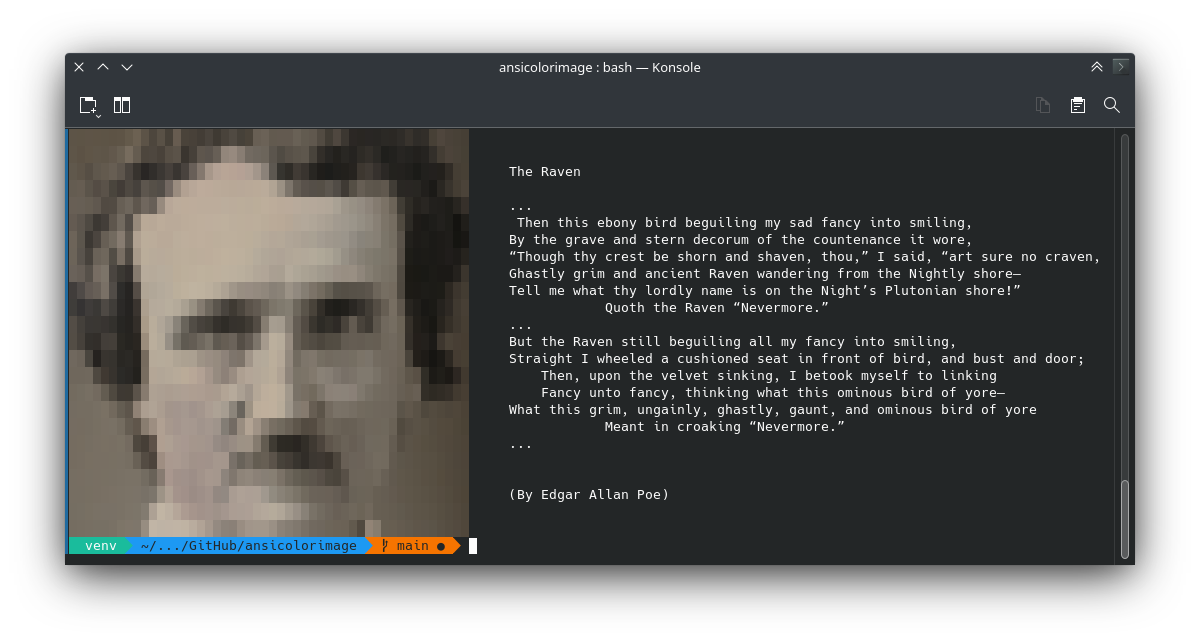
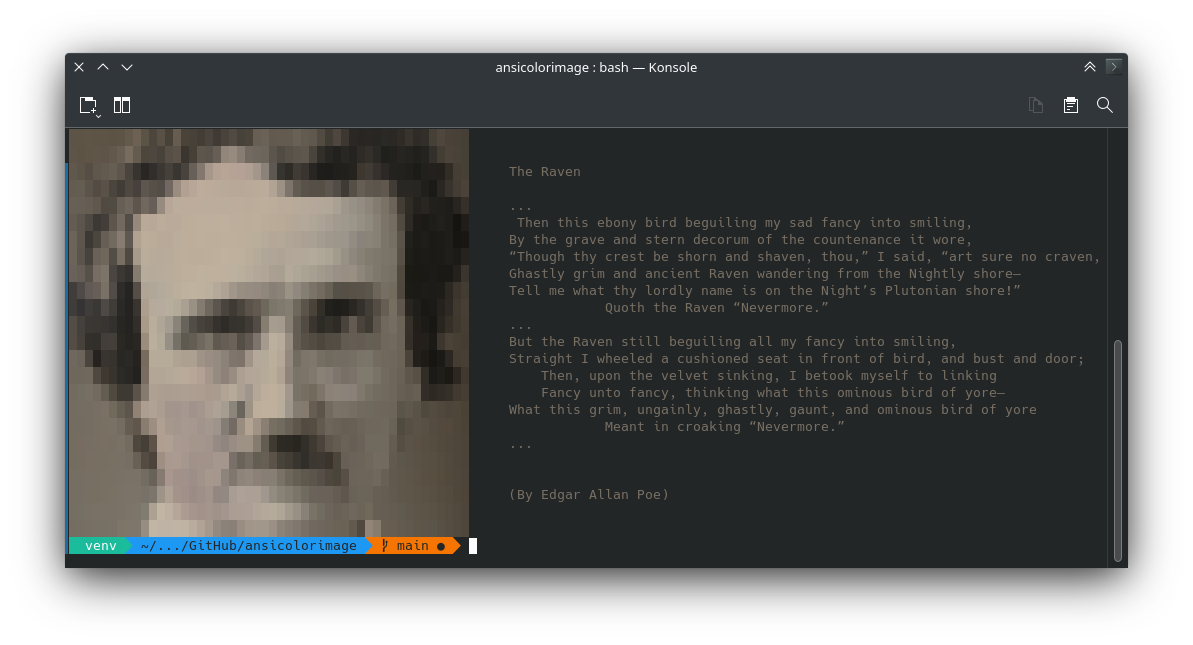
README - Definition, accent color

diff --git a/examples/main.py b/examples/main.py
@@ -78,11 +78,13 @@ def poe_ex():
         show_background_color=True,
         hide_foreground_character=True)
     for text_line, img_line in zip(poem.split('\n'), img.ansi_lines):
-        print(img_line, text_line)
+        print(
+            img_line,
+            f'\x1b[38;2;{img.image_accent_color}m{text_line}\x1B[0m')
 
-    print(
-        'accent_color: '
-        f'\x1b[38;2;{img.image_accent_color}m{img.image_accent_color}\x1B[0m')
+    # print(
+    #     'accent_color: '
+    #     f'\x1b[38;2;{img.image_accent_color}m{img.image_accent_color}\x1B[0m')
 
 
 def kali_ex():
@@ -158,6 +160,6 @@ if __name__ == '__main__':
     neon_ex()
     # python_ex()
     # debian_ex()
-    # poe_ex()
+    poe_ex()
     # kali_ex()
     # accent_color()

diff --git a/src/ansicolorimage.py b/src/ansicolorimage.py
@@ -149,6 +149,11 @@ class AnsiColorImage(object):
         """Getter: str
         Gets the image's accent color as a string with an RGB pattern, and
         values separated by semicolons, such as: '192;0;53'.
+        Use with truecolors pattern. Ex:
+            "\\x1b[38;2;192;0;53m MY-TEXT-HERE \x1B[0m"
+
+        Understand the color formatting in the link:
+            https://github.com/termstandard/colors
 
         Setter: str
         Set the image's accent color with an RGB pattern string and

diff --git a/README.md b/README.md
@@ -4,7 +4,7 @@ Python lib to create figures with text characters and ANSI colors from an image 
 
 https://github.com/w-a-gomes/ansicolorimage
 
-Minimal example.
+### Minimal example.
 
 ```python
 img = AnsiColorImage(url_image='python.png')
@@ -13,8 +13,44 @@ for line in img.ansi_lines:
 ```
 ![Image](data/screen-python.png "screenshot")
 
-Each item represents a line, making it easy to enter parallel information.
+### Definition
+Use `help()` for details.
+```
+AnsiColorImage:
+    Parameters:
+        url_image
+    
+    Optional parameters:
+        brightness
+        chars_map
+        contrast
+        height
+        hide_foreground_character
+        show_background_color
+        width
 
+    Properties:
+        ansi_lines
+        brightness
+        chars_map
+        contrast
+        height
+        hide_foreground_character
+        image_accent_color
+        show_background_color
+        url_image
+        width
+    
+    Methods:
+        update_ascii_lines
+        
+```
+
+### Easy handling
+Each item represents a line, making it easy to enter parallel information.
+I will also use the accent color to color the text with a vintage look, just like the image.
+
+Understand the color formatting in the link:: https://github.com/termstandard/colors
 ```python
 poem = """
     
@@ -48,7 +84,9 @@ img = AnsiColorImage(
     hide_foreground_character=True)
 
 for text_line, img_line in zip(poem.split('\n'), img.ansi_lines):
-    print(img_line, text_line)
+    print(
+        img_line,
+        f'\x1b[38;2;{img.image_accent_color}m{text_line}\x1B[0m')
 ```
 ![Image](data/screen-poe.png "screenshot")
 
